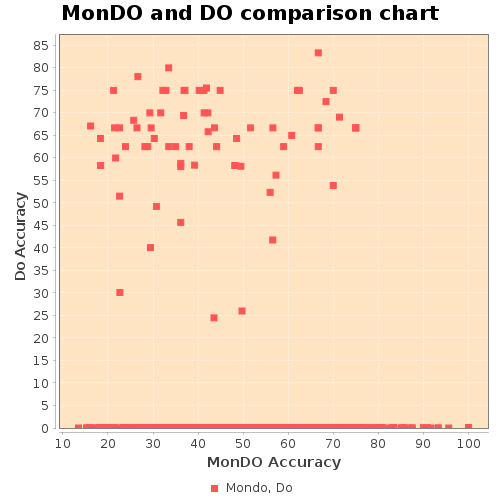
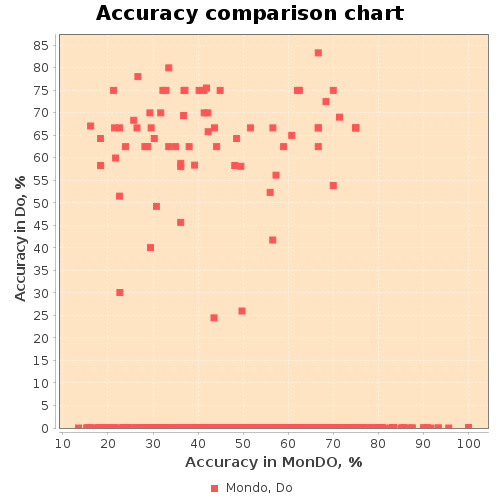
Modified typos in charts

Changed region(s): [[0.12, 0.0, 0.87, 0.06], [0.36, 0.9, 0.72, 0.96], [0.03, 0.33, 0.06, 0.6]]

diff --git a/src/main/java/org/monarchinitiative/mondohpolearner/chart/BarChartGenerator.java b/src/main/java/org/monarchinitiative/mondohpolearner/chart/BarChartGenerator.java
@@ -40,9 +40,9 @@ public class BarChartGenerator {
 			doidDataset.addValue(doidAccCountList.get(i), "Acc", beginIndex + "-" + endIndex + "%");
 		}
 
-		JFreeChart mondoChart = ChartFactory.createBarChart("MonDO", "Acc. Range", "#Desease group", 
+		JFreeChart mondoChart = ChartFactory.createBarChart("MonDO", "Acc. Range", "#Disease group", 
 				mondoDataset, PlotOrientation.VERTICAL, true, true, false);
-		JFreeChart doidChart = ChartFactory.createBarChart("Do", "Acc. Range", "#Desease group", 
+		JFreeChart doidChart = ChartFactory.createBarChart("Do", "Acc. Range", "#Disease group", 
 				doidDataset, PlotOrientation.VERTICAL, true, true, false);
 		
 		mondoChart.removeLegend();

diff --git a/src/main/java/org/monarchinitiative/mondohpolearner/Main.java b/src/main/java/org/monarchinitiative/mondohpolearner/Main.java
@@ -55,8 +55,8 @@ public class Main {
 				DoidProcessor mpr = new DoidProcessor();
 				mpr.run();
 			} else if (cmdLine.hasOption("c")) {
-				// ScatterChartGenerator scg = new ScatterChartGenerator();
-				// scg.run();
+				ScatterChartGenerator scg = new ScatterChartGenerator();
+				scg.run();
 				
 				BarChartGenerator bcg = new BarChartGenerator();
 				bcg.run();
